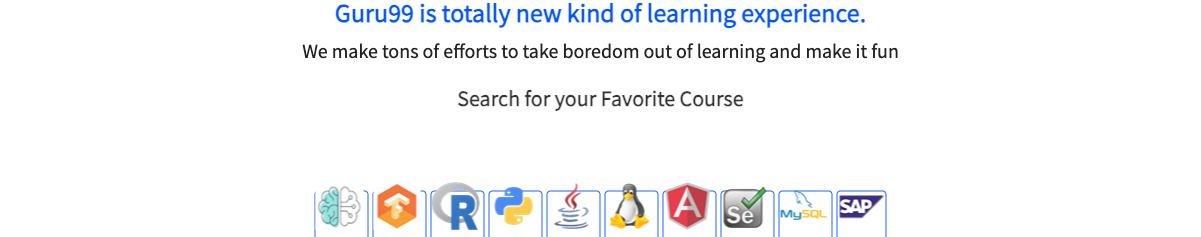
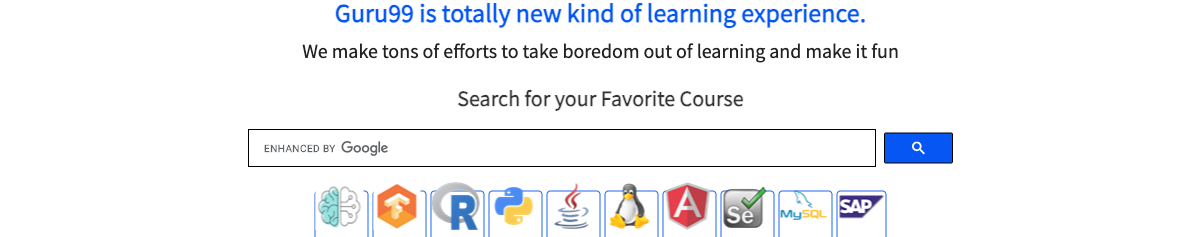
fixes for guru test5

Changed region(s): [[0.2157, 0.5316, 0.801, 0.7089], [0.2157, 0.5907, 0.3389, 0.6498]]

diff --git a/tests/guru.spec.js b/tests/guru.spec.js
@@ -61,9 +61,10 @@ test.describe('Open guru website', () => {
         const input = page.locator('input.gsc-input');
 
         await page.mouse.move(100, 100); //added mousemove
-        await page.locator('div.g-content').screenshot({ path: 'screenshots/header_with_search.png'});
-        await expect(page).toHaveScreenshot('screenshots-main-page-screenshot.png');
-        await input.click();
+        await page.waitForTimeout(2000);
+        await page.locator('div.g-content').screenshot({ path: 'screenshots/header_with_search.png' })
+        await expect(page).toHaveScreenshot('screenshots-main-page-snapshot.png')
+        await input.click()
         await input.fill('sap');
         await page.screenshot({ path: 'screenshots/sap_in_search_input.png', fullPage: false });
         await input.clear();

diff --git a/playwright.config.js b/playwright.config.js
@@ -33,7 +33,8 @@ module.exports = defineConfig({
     viewport: {width: 1280, height: 720},
     /* Base URL to use in actions like `await page.goto('/')`. */
     // baseURL: 'http://127.0.0.1:3000',
-    baseURL: process.env.ENV_URL,
+    baseURL: 'https://www.guru99.com',
+    //baseURL: process.env.ENV_URL,
     // baseURL: process.env.URL === '1' ? 'https://www.test.guru99.com' : 'https://www.guru99.com',
     locale: 'en-GB',
     timezoneId: 'Europe/London',
